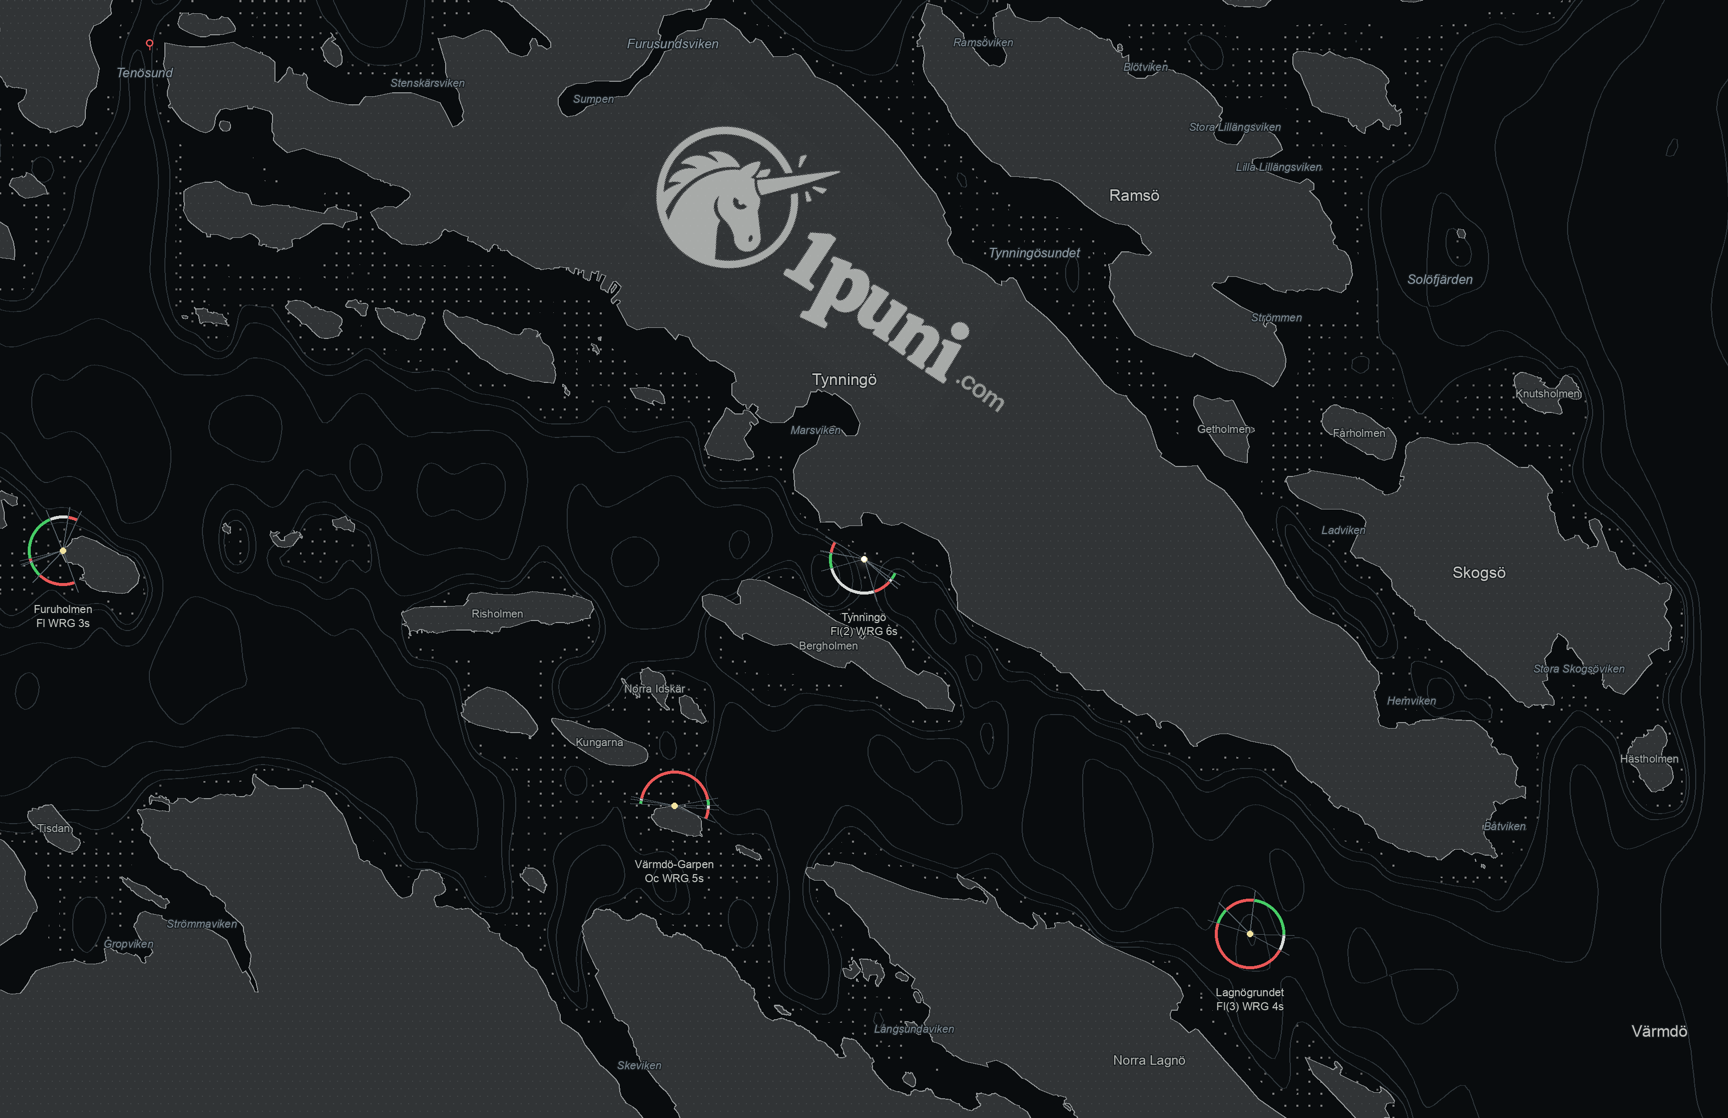
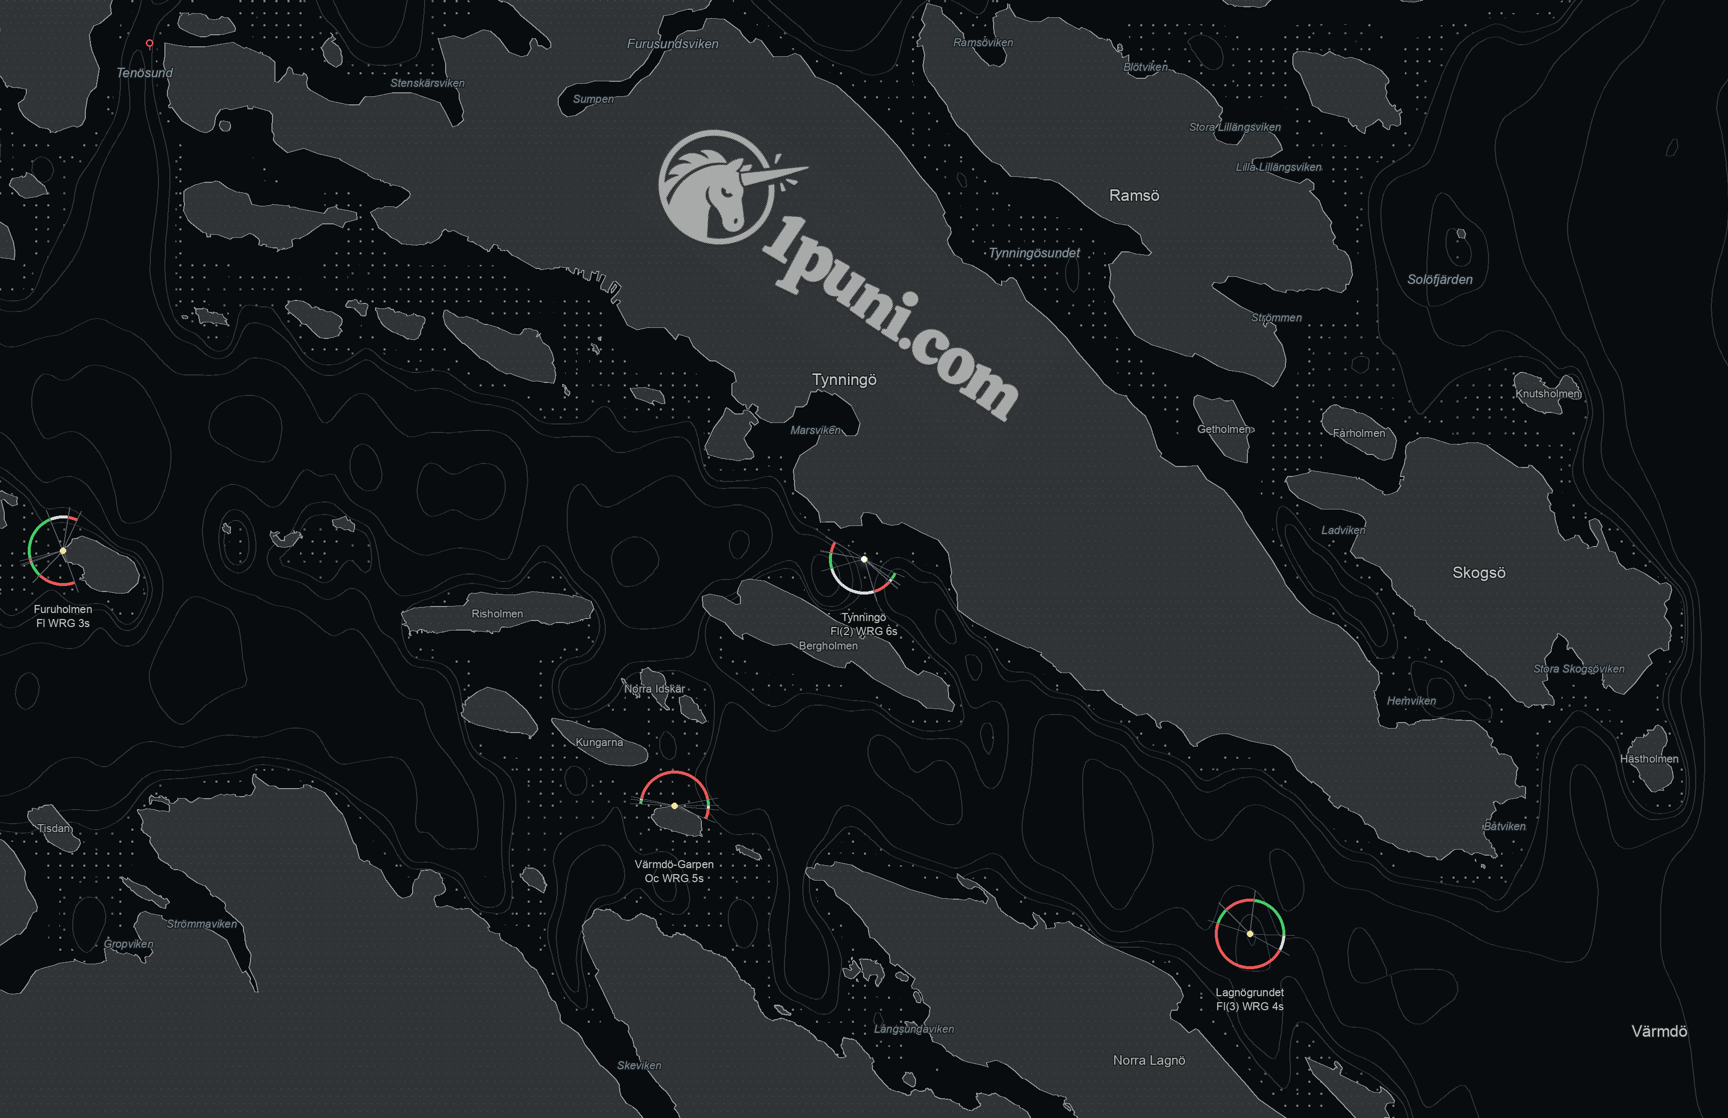
Match the entire 1puni.com wordmark in one artwork

Changed region(s): [[0.375, 0.0912, 0.5938, 0.3953]]

diff --git a/screensaver/Sources/OpenHelmChartSaver/OpenHelmChartSaverView.swift b/screensaver/Sources/OpenHelmChartSaver/OpenHelmChartSaverView.swift
@@ -415,7 +415,6 @@ public final class OpenHelmChartSaverView: ScreenSaverView {
     /// island at every display size. The original logo remains unchanged on disk.
     private struct ChartInscription: Decodable {
         let image: String
-        let text: String
         let centerX: Double
         let centerY: Double
         let width: Double
@@ -452,9 +451,8 @@ public final class OpenHelmChartSaverView: ScreenSaverView {
             }
             let group = CALayer()
             group.name = "chart-inscription"
-            // The whole supplied wordmark is artwork: never re-typeset its distinctive
-            // 1p letterforms. Only the small URL suffix is live text.
-            let artworkWidth = spec.width * 0.84
+            // The entire address is one artwork, including .com. No substitute font.
+            let artworkWidth = spec.width
             let artworkHeight = artworkWidth * input.extent.height / input.extent.width
             group.bounds = CGRect(x: 0, y: 0, width: spec.width, height: artworkHeight)
             group.opacity = 0.72
@@ -462,17 +460,7 @@ public final class OpenHelmChartSaverView: ScreenSaverView {
             emblem.contents = logo
             emblem.frame = CGRect(x: 0, y: 0, width: artworkWidth, height: artworkHeight)
             emblem.minificationFilter = .trilinear
-            let label = CATextLayer()
-            label.string = NSAttributedString(string: spec.text, attributes: [
-                .font: NSFont.systemFont(ofSize: spec.width * 0.060, weight: .semibold),
-                .foregroundColor: NSColor(calibratedRed: 0.70, green: 0.72, blue: 0.70, alpha: 1),
-                .kern: -0.8,
-            ])
-            label.frame = CGRect(x: artworkWidth, y: artworkHeight * 0.28,
-                                 width: spec.width - artworkWidth, height: spec.width * 0.09)
-            label.contentsScale = 2
             group.addSublayer(emblem)
-            group.addSublayer(label)
             group.shadowColor = NSColor.black.cgColor
             group.shadowOpacity = 0.35
             group.shadowRadius = 1

diff --git a/screensaver/scripts/verify-bundle-load.swift b/screensaver/scripts/verify-bundle-load.swift
@@ -71,10 +71,9 @@ for id in ids {
     let inscription = layers[0].sublayers?.first { $0.name == "chart-inscription" }
     guard hasInscription == (inscription != nil) else { fail("\(id): inscription did not load") }
     if let inscription {
-        guard inscription.sublayers?.first?.contents != nil,
-              let label = inscription.sublayers?.last as? CATextLayer,
-              let text = label.string as? NSAttributedString, !text.string.isEmpty else {
-            fail("\(id): logo or inscription text missing")
+        guard inscription.sublayers?.count == 1,
+              inscription.sublayers?.first?.contents != nil else {
+            fail("\(id): complete domain artwork missing")
         }
     }
     let sceneCredits = view.configureSheet?.contentView?.subviews

diff --git a/screensaver/Tests/OpenHelmChartSaverTests/OpenHelmChartSaverViewTests.swift b/screensaver/Tests/OpenHelmChartSaverTests/OpenHelmChartSaverViewTests.swift
@@ -171,7 +171,8 @@ struct OpenHelmChartSaverViewTests {
                 #expect(mark.name == "chart-inscription")
                 #expect(abs(mark.position.x / chart.bounds.width - 0.49) < 0.0001)
                 #expect(abs(mark.position.y / chart.bounds.height - 0.755) < 0.0001)
-                #expect(mark.sublayers?.count == 2)
+                #expect(mark.sublayers?.count == 1)
+                #expect(mark.sublayers?.first?.contents != nil)
                 let position = mark.position
                 let transform = mark.transform
                 view.renderPreviewFrame(at: 1.5)

diff --git a/docs/1puni-tynningo.md b/docs/1puni-tynningo.md
@@ -3,13 +3,13 @@
 An additional, offline native screen saver commissioned by Evita on 2026-09-30:
 put 1puni.com and its logo into Tynningö as though they belong to the island.
 
-The complete original horizontal 1puni logo, including its distinctive 1p
-letterforms, follows the island’s northwest–southeast axis. A small `.com` suffix
-completes the address. Cool grey ink (#b3b8b3), a restrained recessed shadow,
+The original horizontal 1puni logo is extended into a single `1puni.com`
+artwork, with matching chunky serif lettering at the same scale throughout.
+The complete mark follows the island’s northwest–southeast axis. Cool grey ink (#b3b8b3), a restrained recessed shadow,
 charcoal land and near-black water keep the composition quiet. The
 inscription is attached to the chart coordinate system, never the screen edge.
 The real coastline, chart plate, lighthouse timing and land-occlusion mask are
-unchanged. The logo is the original asset from 1puni.com, rendered as an ink mask
+unchanged. The logo is an imagegen extension of the original asset from 1puni.com, rendered as an ink mask
 once at load time; no network access or image processing occurs per frame.
 
 The separate bundle identifier `com.1puni.tynningo` preserves both the old saver
@@ -30,7 +30,7 @@ The installation is user-scoped at
 `~/Library/Screen Savers/1puni-Tynningo.saver`.
 Choose **1puni — Tynningö** in System Settings → Screen Saver.
 
-`inscription.json` and the original horizontal wordmark travel in the scene's `.include/`
+`inscription.json`, the source wordmark and the extended domain artwork travel in the scene's `.include/`
 directory. The optional sidecar declares chart-relative centre, width in logical
 chart points and rotation. Other scenes do not acquire the inscription.
 
@@ -39,10 +39,16 @@ publish a website change or a GitHub binary release.
 
 ## Brand fidelity
 
-V rejected the initial Georgia interpretation on September 30. The 1puni
-lettering is now the original `logo-horizontal.png` from 1puni.com, with its
-proportions preserved. No replacement font renders the brand name. Version 1.1
-supersedes the rejected first design.
+V rejected both the initial Georgia interpretation and the subsequent system-font
+`.com` suffix on September 30. Version 1.2 uses one complete domain artwork:
+`logo-domain.png`, made with built-in image generation using the original
+`logo-horizontal.png` as its edit target. There are no runtime text layers or
+substitute fonts. The original source image remains alongside the new artwork.
+
+Generation prompt: extend the supplied logo to read “1puni.com”; preserve the
+unicorn and existing 1puni lettering; match the original chunky soft slab-serif
+letterforms, x-height, weight, irregular angles, counters and baseline in `.com`;
+use natural optical spacing, black ink on white, and no secondary suffix styling.
 
 ## Verification
 
